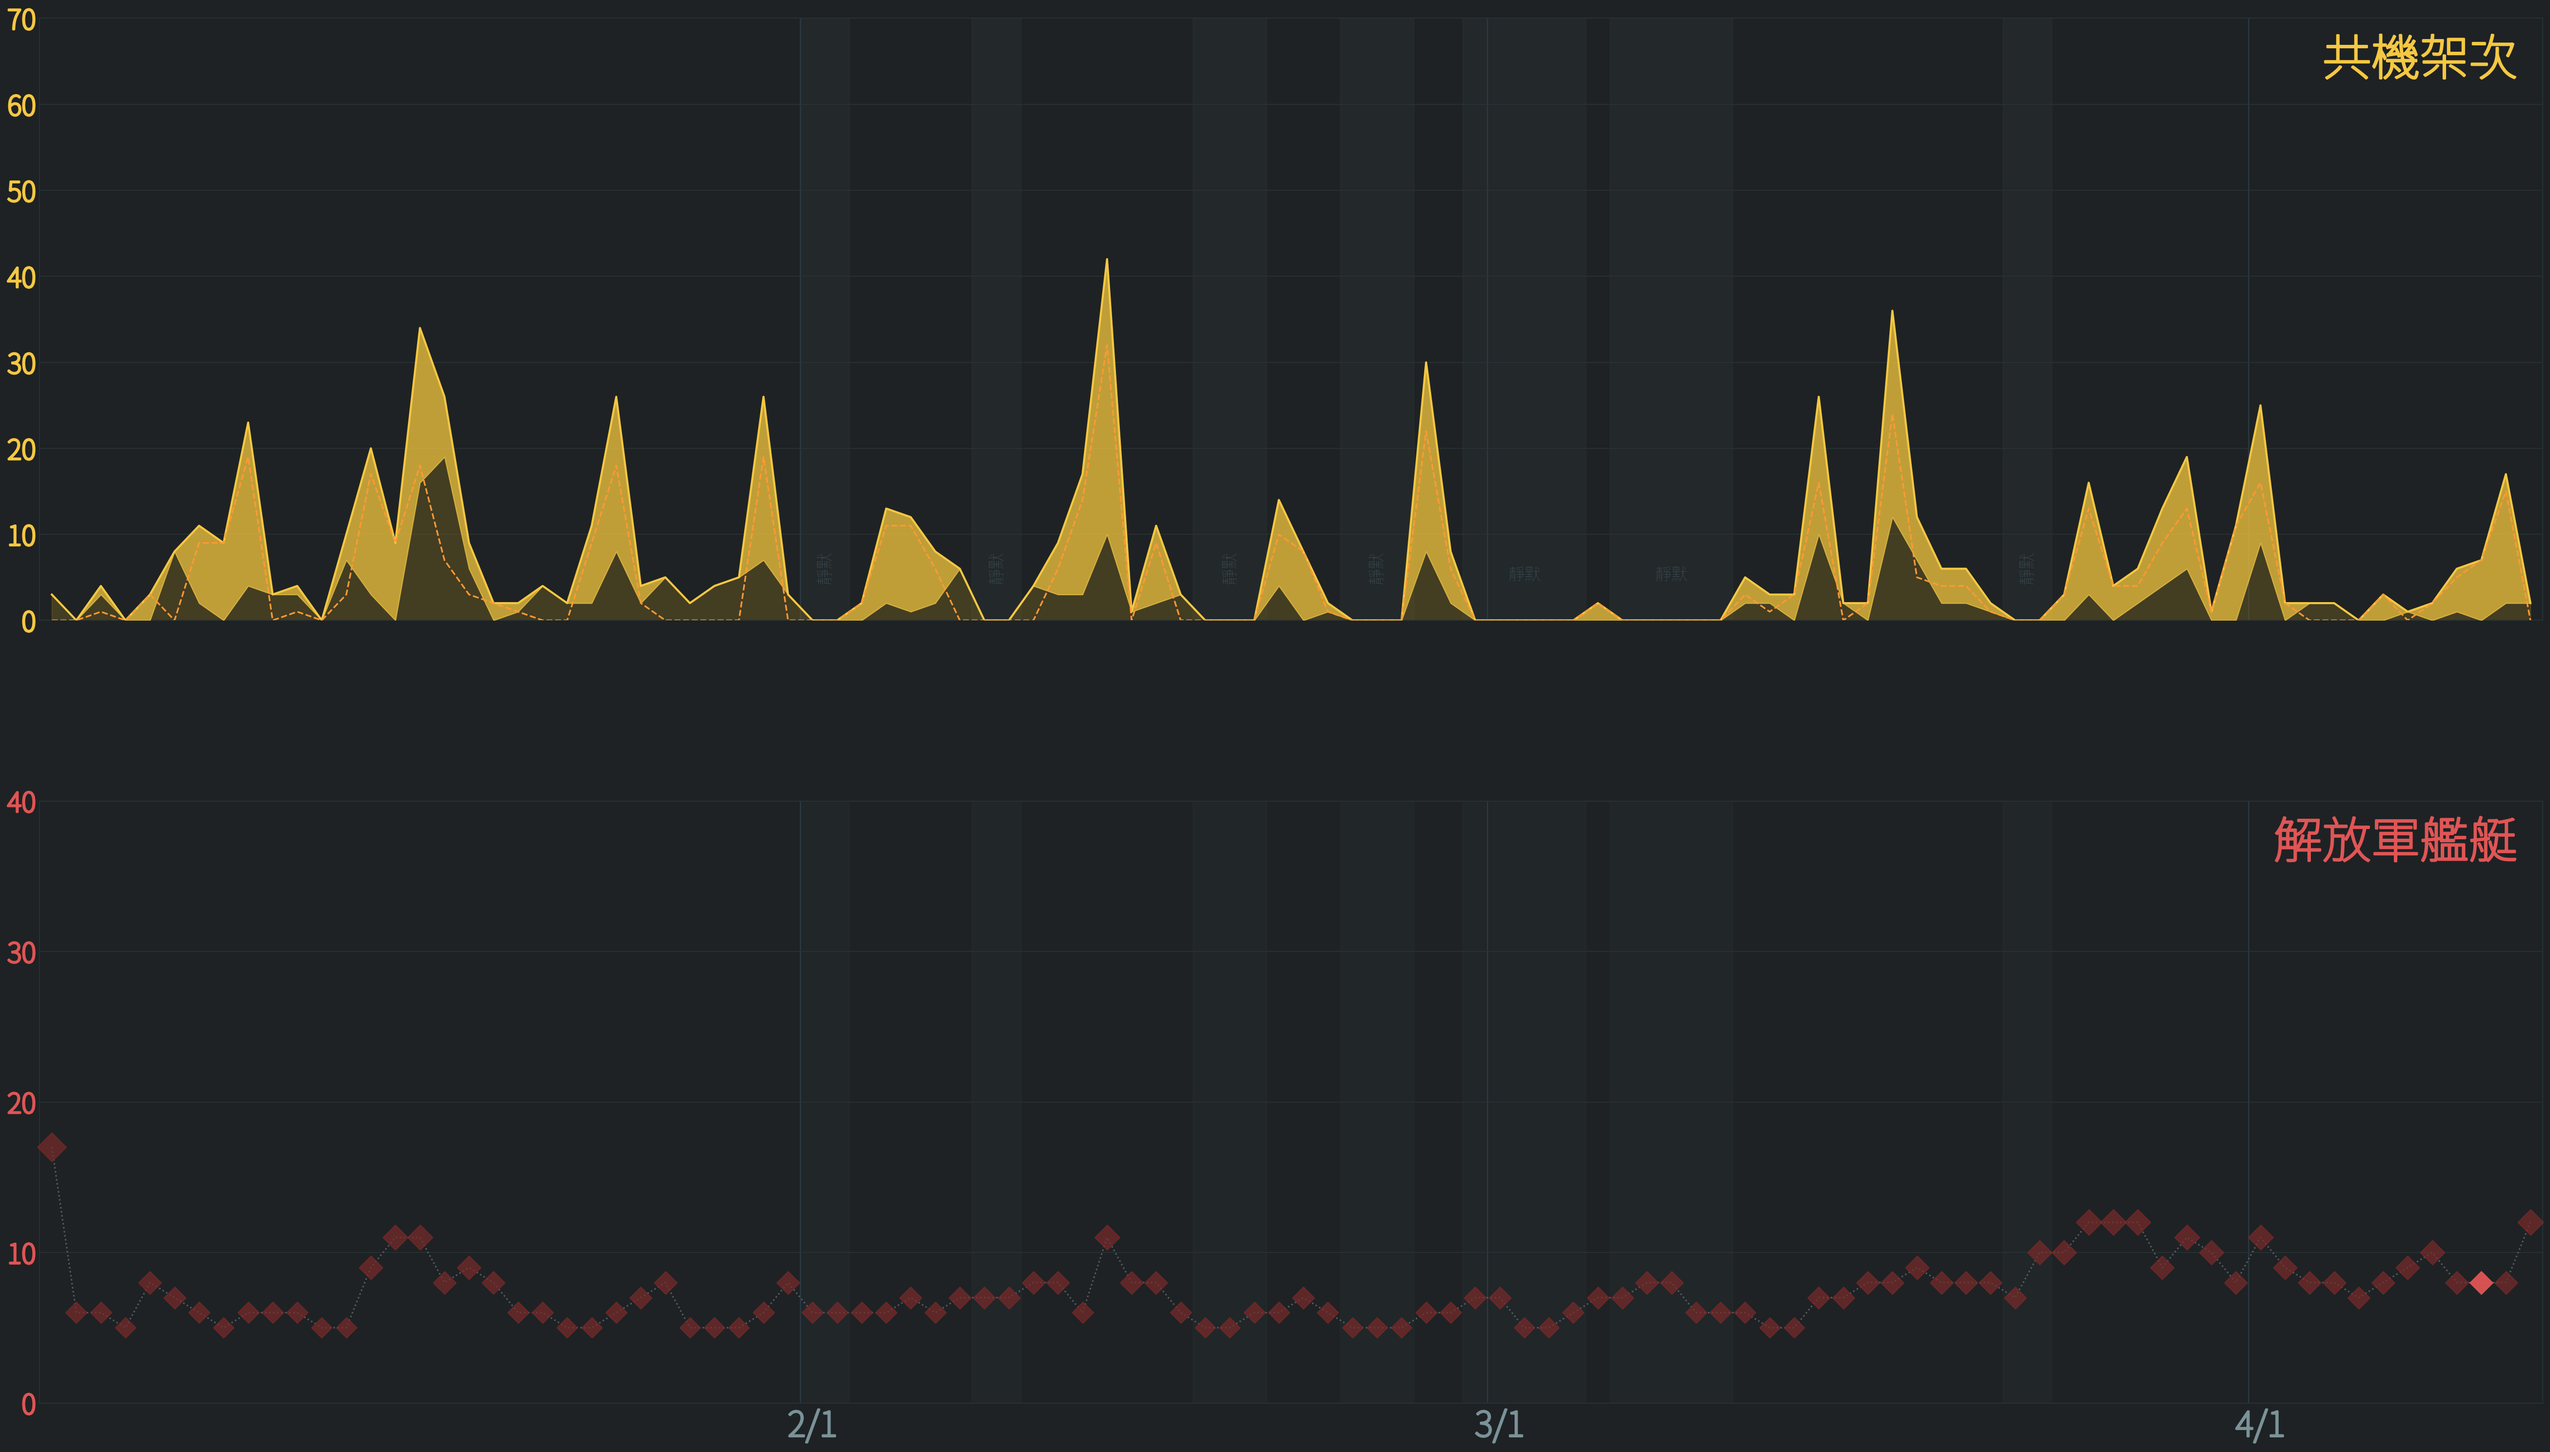
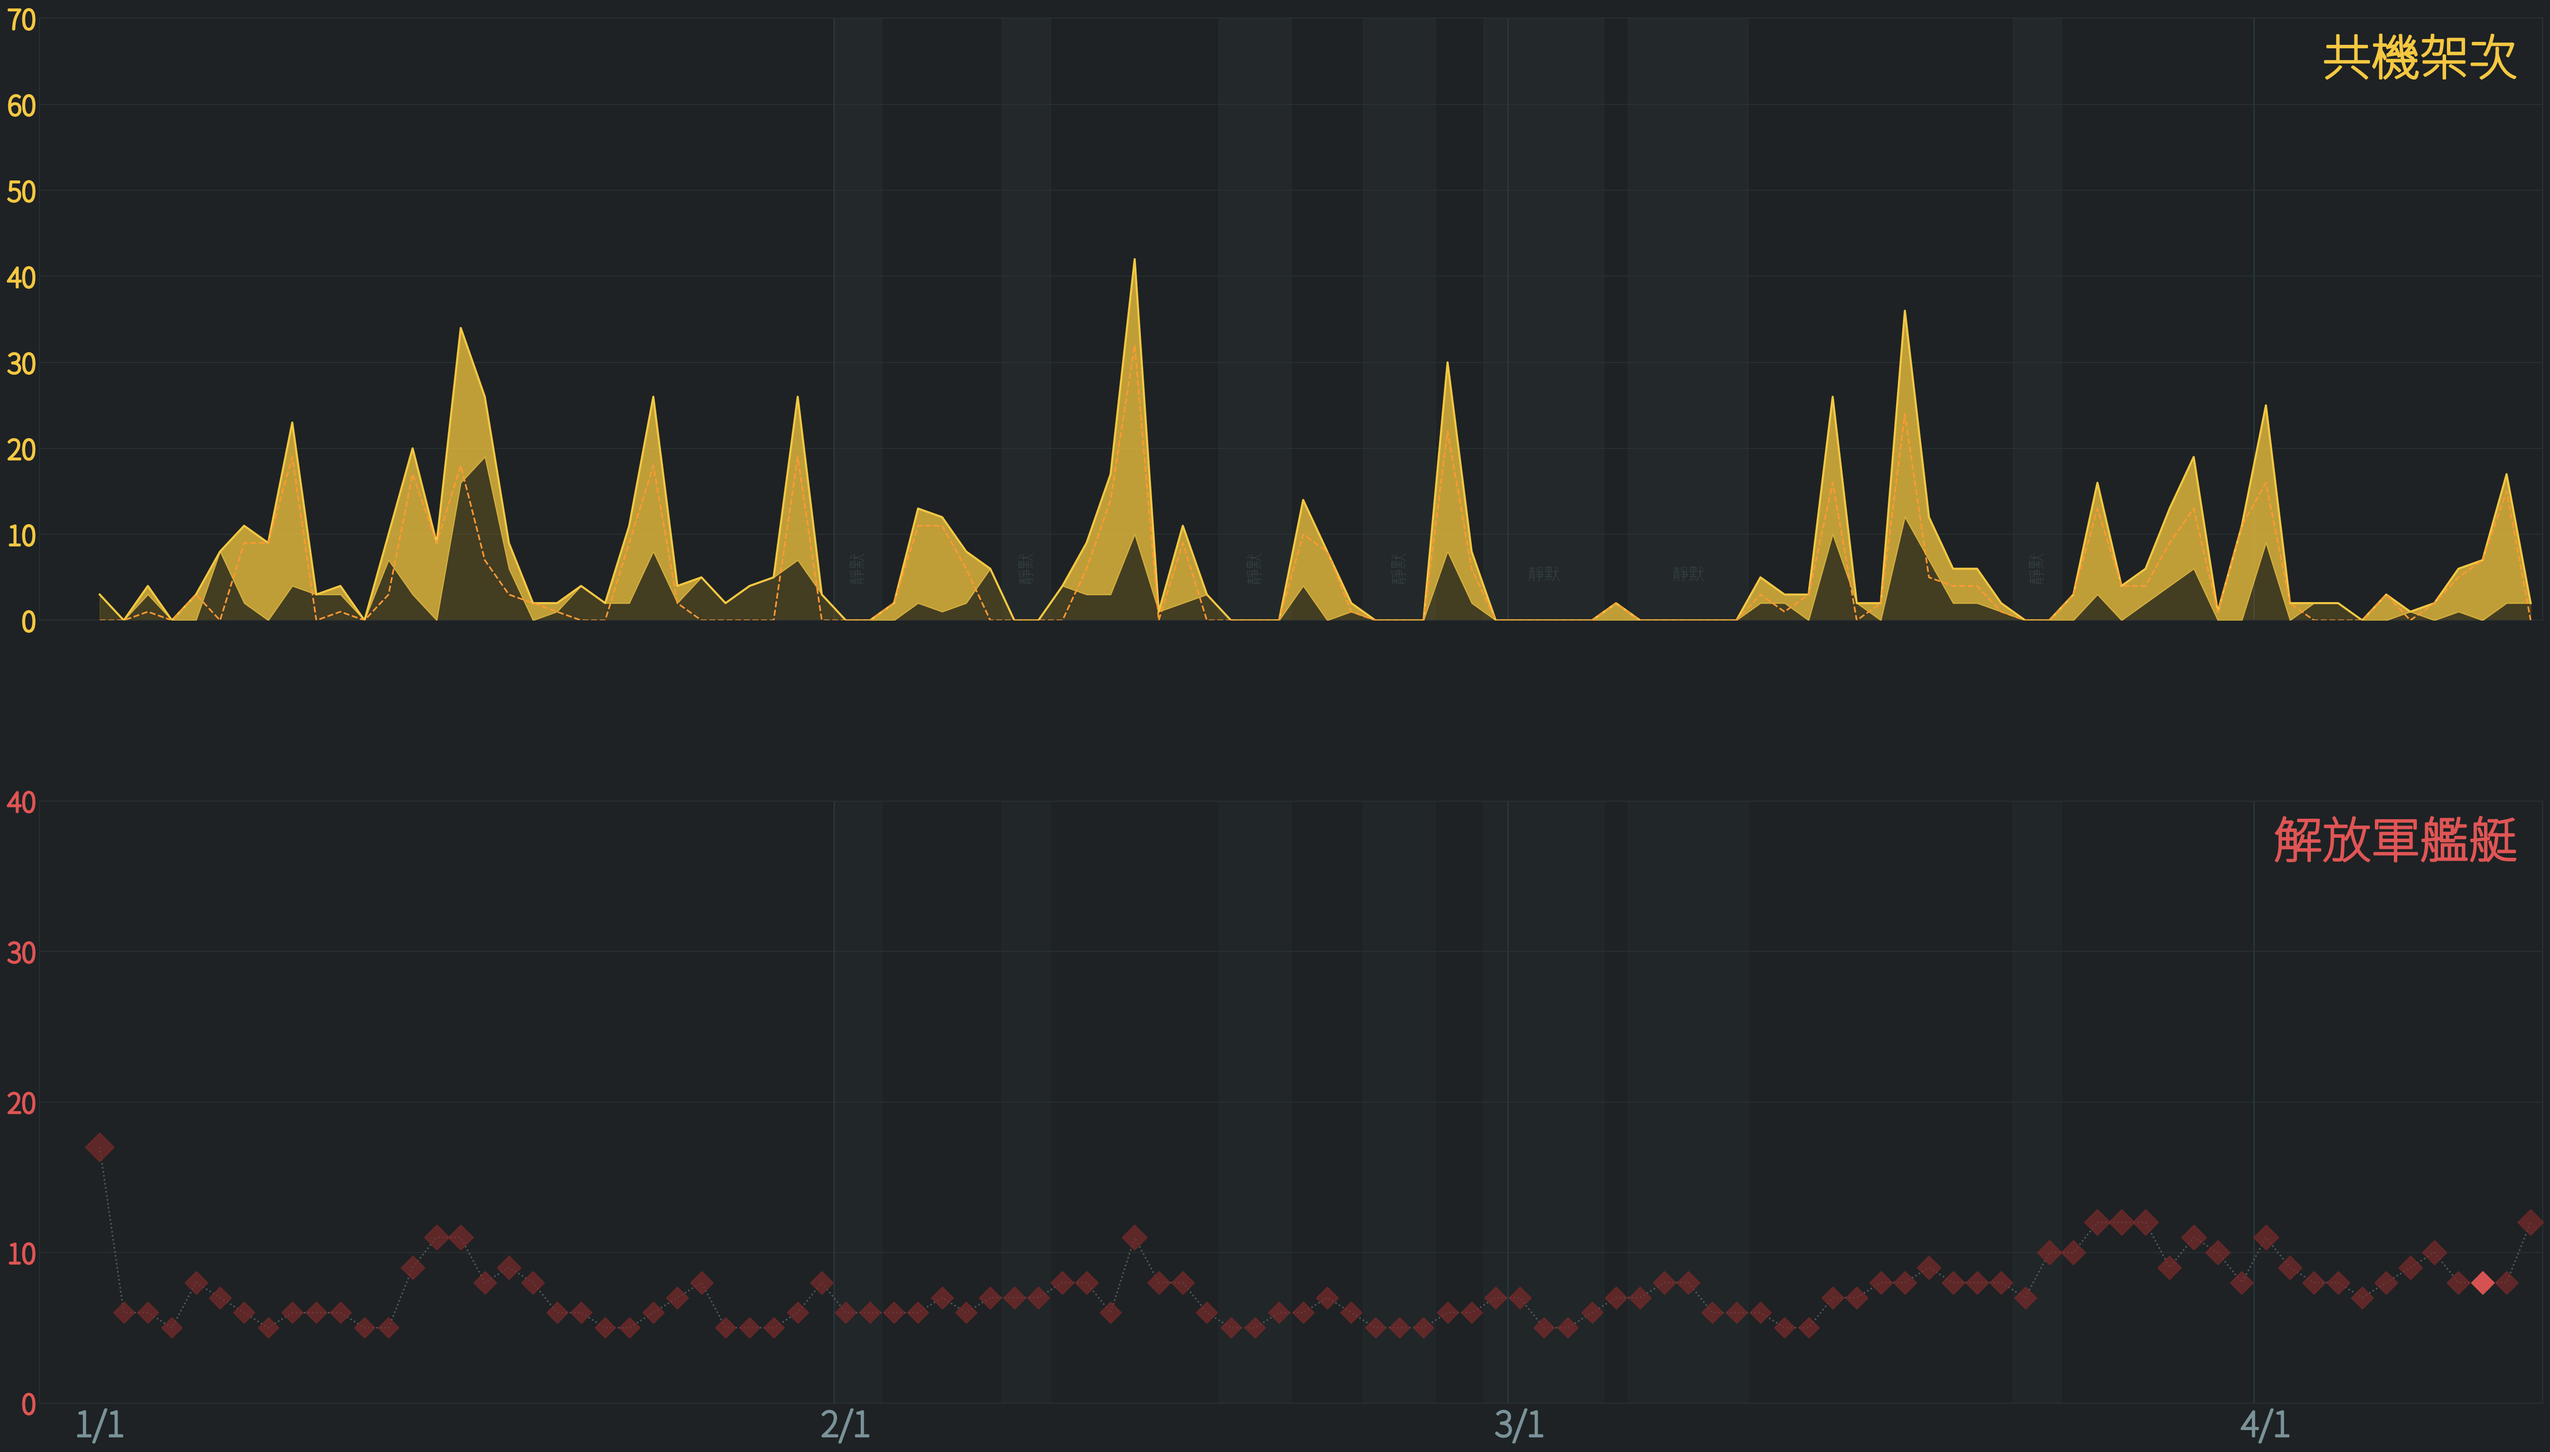
fix: 趨勢圖顯示1/1、xlim左移給Y軸足夠間距

diff --git a/scripts/chart_daily.py b/scripts/chart_daily.py
@@ -330,9 +330,7 @@ def _is_local_max(vals, i, window=2):
 
 
 def _xaxis_show(i, n, dates, today_date):
-    """只顯示每月月首，且跳過 i==0（緊貼 Y 軸）"""
-    if i == 0:
-        return False
+    """只顯示每月月首"""
     return pd.to_datetime(dates[i]).day == 1
 
 
@@ -388,7 +386,7 @@ def make_streak_chart(df, today_date=None, obs_text=None, out_path=None):
 
     for ax in [ax_ac, ax_sh]:
         setup_ax(ax)
-        ax.set_xlim(-0.5, n - 0.5)
+        ax.set_xlim(-2.5, n - 0.5)
 
     # ── 上面板：飛機面積圖 ──
     ylim_ac_raw = max(ac_max * 1.45, 5)
